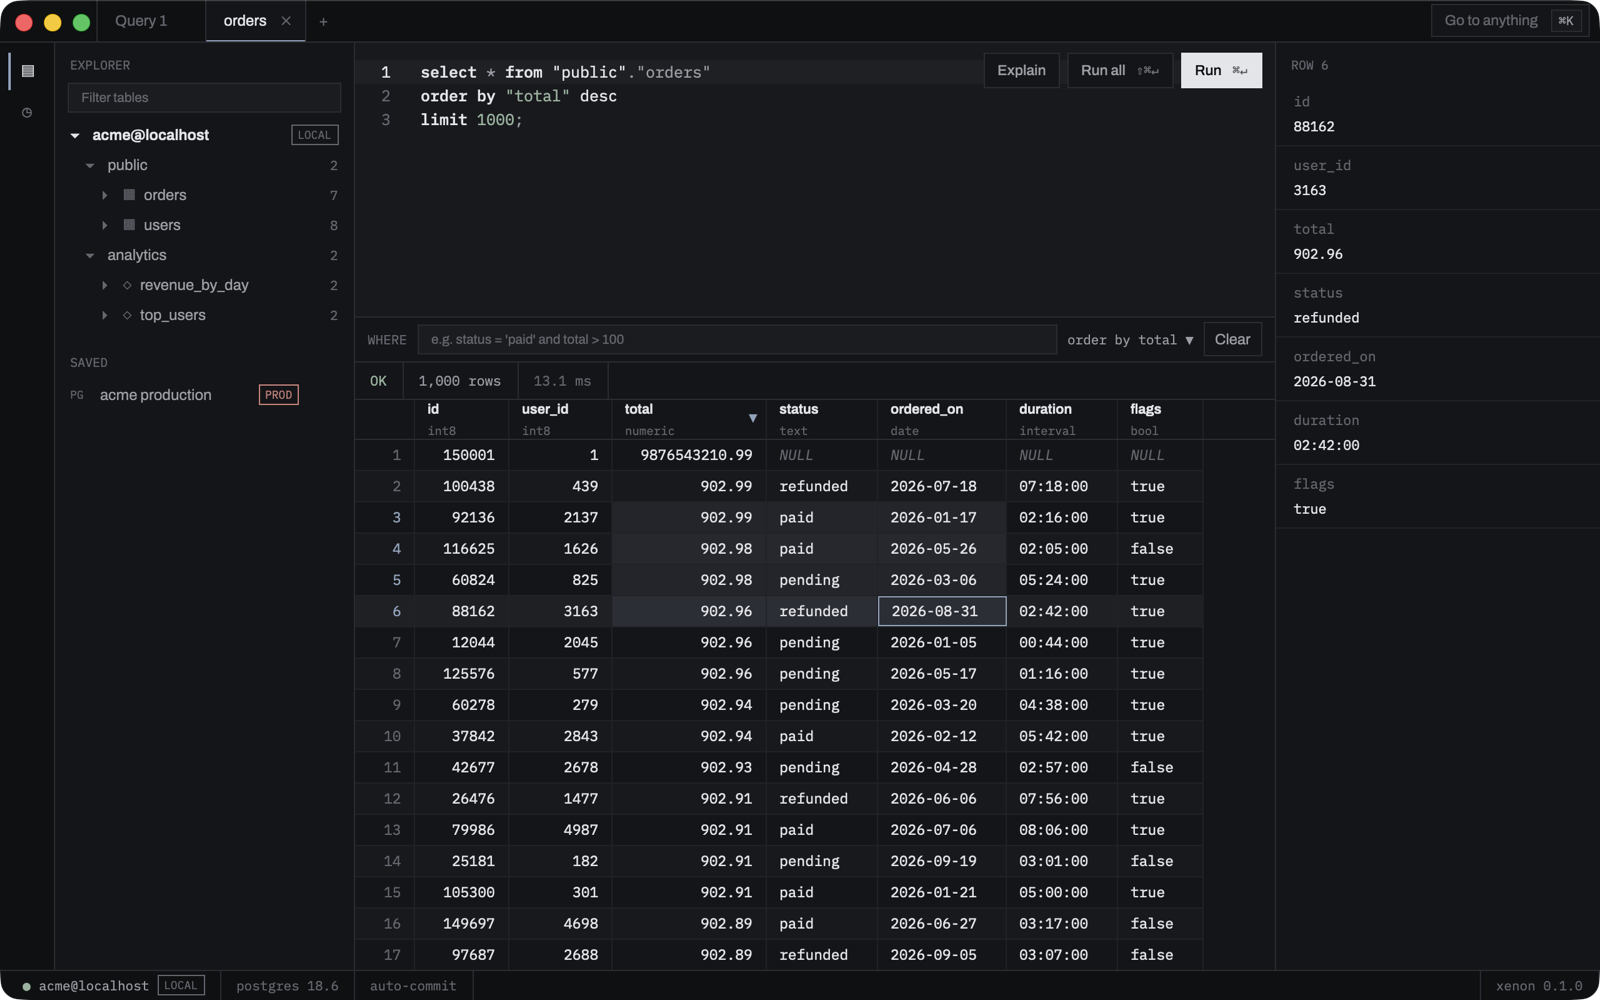
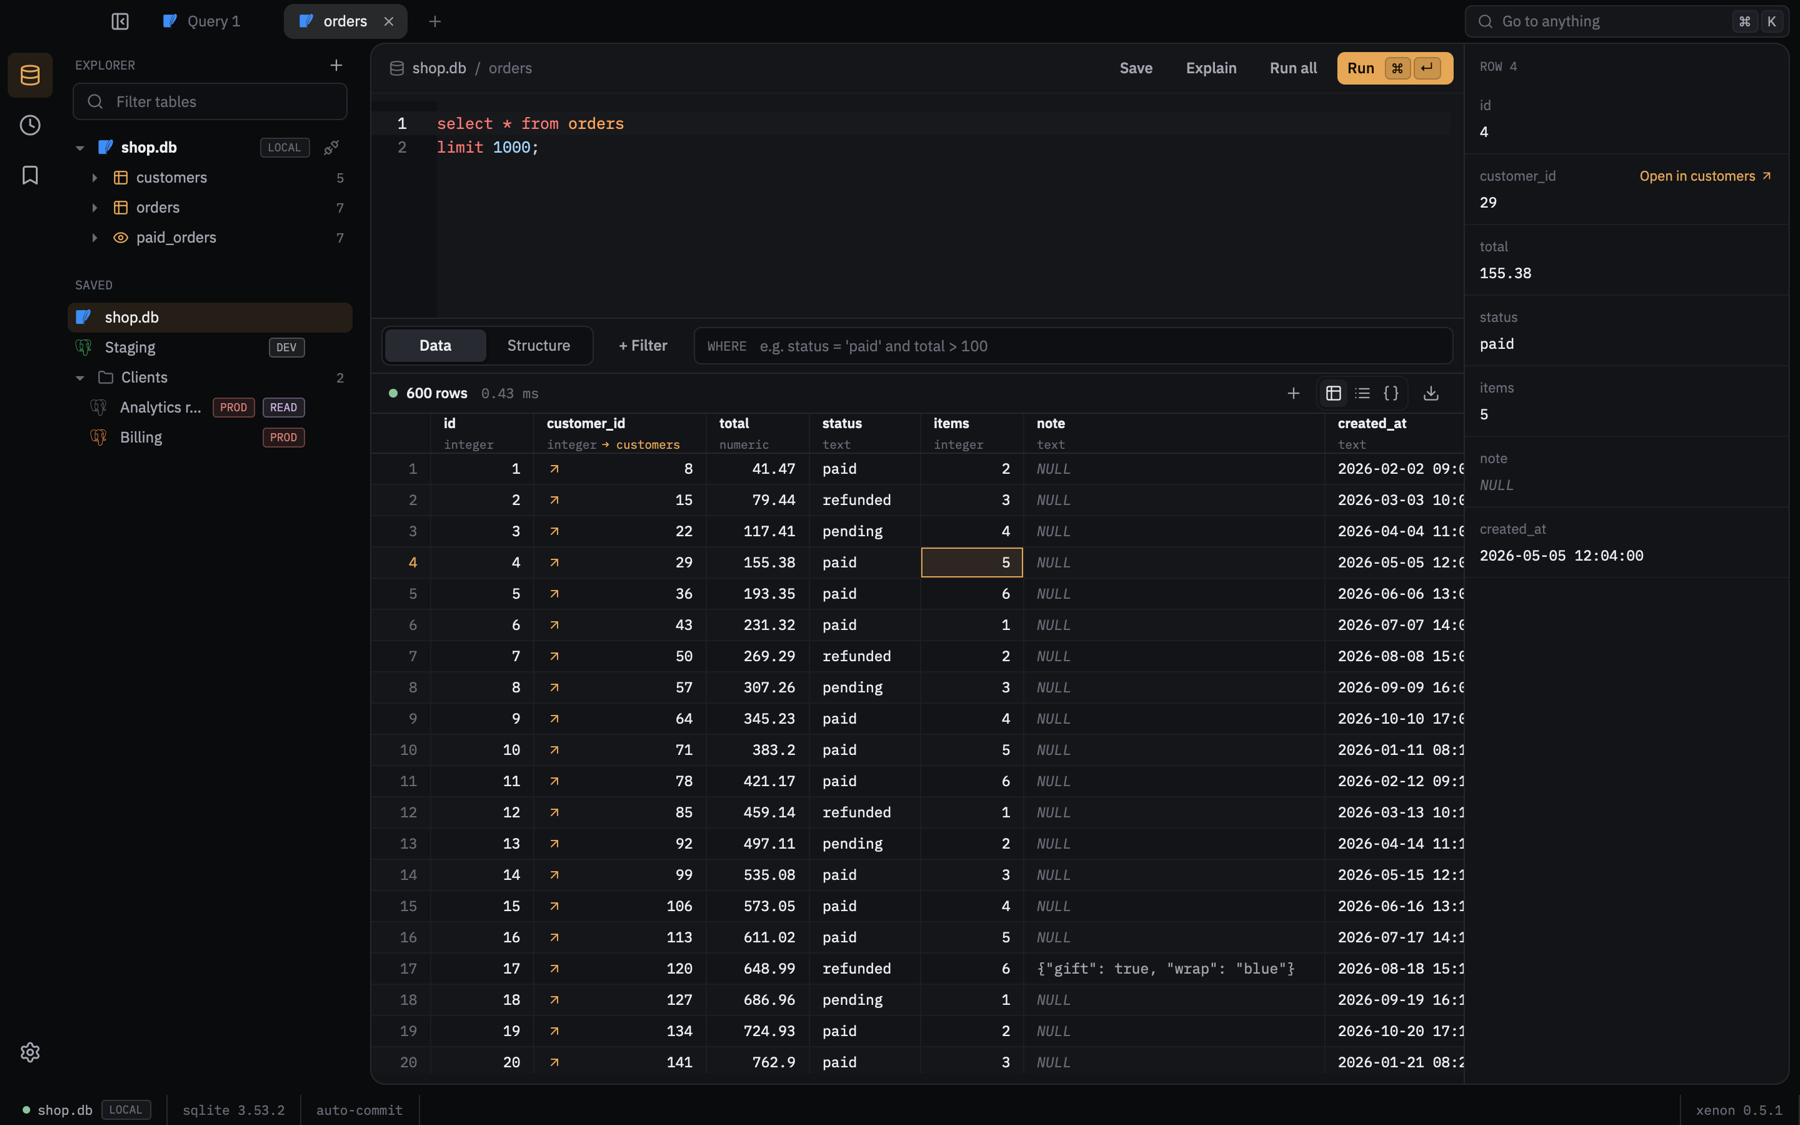
0.5.1; README: new screenshots, and what's changed since 0.3 (editing in place, result views, parameters, error fixes, connections, settings, shortcuts, fonts)

diff --git a/README.md b/README.md
@@ -19,16 +19,20 @@ A fast, minimal database client for Postgres, MySQL, MariaDB, SQL Server, SQLite
 - **Several connections at once**, side by side: every tab says which database it runs on.
 - **SSH tunnels** through a bastion, using your own `ssh`: `~/.ssh/config` aliases, `ProxyJump`, the
   agent (1Password, Secretive) and `known_hosts` all just work.
+- **Stays connected** through sleep and network drops, and never re-runs a query by itself.
+- **Yours to arrange:** light or dark, six accents, ten code themes, five interface and five code
+  fonts, any text size.
 
-Version 0.3.0, early. See [ROADMAP.md](ROADMAP.md) for the road to 1.0 and [PLAN.md](PLAN.md) for design and architecture.
+Version 0.5.1, early. See [ROADMAP.md](ROADMAP.md) for the road to 1.0 and [PLAN.md](PLAN.md) for design and architecture.
 
 ## Install
 
-Download `Xenon-0.3.0.dmg` from [Releases](https://github.com/0mjs/xenon/releases), open it and
+Download `Xenon-0.5.1.dmg` from [Releases](https://github.com/0mjs/xenon/releases), open it and
 drag Xenon to Applications. It's signed with Carbon Software's Developer ID and notarized by
 Apple.
 
-Requires macOS 12 or later.
+Requires macOS 12 or later on Apple silicon. There's no automatic updating yet: **Xenon → Check
+for Updates…** says when a newer version is out.
 
 ## Use
 
@@ -45,7 +49,7 @@ back Connect to open another, and `⇧⌘W` closes the current tab's connection.
 | Shortcut | Action |
 |---|---|
 | `⌘K` / `⌘P` | Command palette: jump to a table or run any command |
-| `⌘,` | Settings: theme, accent colour, row limits, editor size, safety, history |
+| `⌘,` | Settings: theme, layout, fonts, text size, accent, code theme, row limits, safety, history |
 | `⌘O` | Open a database file (SQLite, DuckDB) or a CSV / Parquet / JSON file |
 | `⌘N` | New server connection (Postgres, MySQL / MariaDB, SQL Server) |
 | `⇧⌘N` | Connections: open another database alongside |
@@ -53,6 +57,10 @@ back Connect to open another, and `⇧⌘W` closes the current tab's connection.
 | `⌘↵` | Run the statement under the cursor (or the selection) |
 | `⇧⌘↵` | Run everything in the editor (or the selection) |
 | `⌘E` | Explain the statement under the cursor |
+| `⌥⇧F` | Format SQL (only the layout changes; anything it doesn't understand is left alone) |
+| `⌘/` | Toggle comment |
+| `⌘F` / `⇧⌘F` | Find / find and replace in the editor |
+| `⌘+` / `⌘−` / `⌘0` | Bigger / smaller / actual-size text, everywhere |
 | `⌘.` | Cancel the running query |
 | `⌘S` | Save the query (or a table's staged changes) |
 | `⇧⌘S` | Export results: CSV, Excel, JSON, SQL inserts, Markdown, TSV |
@@ -66,25 +74,55 @@ back Connect to open another, and `⇧⌘W` closes the current tab's connection.
 **Results grid:** click a cell, shift-click or `⇧`+arrows to select a block, arrows to move, `⌘A`
 for everything. `⌘C` copies as TSV (pastes into spreadsheets), `⇧⌘C` as CSV, `⌥⌘C` as JSON. Click
 a header to sort; drag a header's edge to resize, double-click it to fit. `Esc` returns to the
-editor.
+editor. Right-click a header to hide, pin or move a column; tables remember their arrangement.
+Select numbers to see their count, sum, average, min and max in the results bar.
+
+**Grid, Records or JSON:** the switch above the results shows rows as a grid, as cards of field and
+value (handy for one wide row), or as JSON, pretty or compact. A script's statements each get
+their own result tab.
+
+![Two result sets from one script](docs/screenshots/results.png)
 
 **Browsing a table** (click it in the explorer) opens it in its own tab with a `WHERE` filter;
-sorting there runs on the server, so you see the true top rows.
+sorting there runs on the server, so you see the true top rows. Large tables page, with a row
+count (exact when that's cheap, estimated when not).
 
 **Autocomplete** suggests tables after `FROM` / `JOIN`, columns of the tables in your statement
 (through their aliases: `o.` lists `orders`' columns), other schemas' tables, functions and
 keywords, as you type; `⌃Space` opens it anywhere.
 
-**Editing a table:** double-click a cell (or select it and press `↵`), type, and press `↵`; **Set
-NULL** is next to the field. **+ Row** adds a row (empty cells take the column's default), `⌘⌫`
+**Editing a table:** double-click a cell (or select it and press `↵`) and type straight into it: `↵`
+keeps the change, `Esc` drops it, `Tab` moves to the next cell. The inspector shows the field
+being edited, with **Set NULL**; long text and JSON open there in a bigger editor. **+ Row** adds a row (empty cells take the column's default), `⌘⌫`
 marks the selected rows for deletion. Changes stay staged, tinted in the grid, until you press
 `⌘S`: they're saved in one transaction, and if any row changed or vanished since it was loaded,
 nothing is saved. **Review SQL** shows exactly what will run; production connections always ask,
 with their name typed. Tables need a primary key to be edited.
 
+![Editing a cell in place](docs/screenshots/edit.png)
+
+**Parameters:** `:name` everywhere, `$1` on Postgres and DuckDB, `?` on MySQL, SQLite and DuckDB.
+Xenon asks for the values and writes them in as quoted literals, so the production prompt shows
+exactly what will run.
+
+**Errors where they happen:** the mistake is underlined in the editor, and a misspelt table or
+column gets "Did you mean…?" with a **Fix** button.
+
+![A misspelt column, with a fix](docs/screenshots/errors.png)
+
+**Connections** can be coloured and filed in folders: a slash in a name files it
+(`Clients/Acme production`). **File → Import Connections…** takes URLs or file paths, one per line.
+Mutual TLS: a private CA and client certificates for Postgres and MySQL / MariaDB, a CA for SQL
+Server.
+
+**Settings** (`⌘,`) change things as you go: theme, a classic or floating layout, interface and
+code fonts, text size, accent, code theme, row limits and safety.
+
+![Settings](docs/screenshots/settings.png)
+
 **Also:** drag the line under the editor to resize it (double-click to reset); when the database
-says where a query failed, the cursor jumps there; View → Theme picks System, Light or Dark; double-click
-the title bar to zoom.
+says where a query failed, the cursor jumps there; View → Theme picks System, Light or Dark; Xenon opens
+filling the screen, and double-clicking the title bar returns it to its window size.
 
 ## Build from source
 
@@ -131,5 +169,6 @@ Software Ltd. See [CONTRIBUTING.md](CONTRIBUTING.md) before sending code.
 
 ## Credits
 
-Fonts: Archivo and IBM Plex Mono, under the SIL Open Font License (`assets/fonts`). UI built on
+Fonts: Archivo, Inter, Geist, IBM Plex Sans, IBM Plex Mono, JetBrains Mono, Fira Code and Geist
+Mono, under the SIL Open Font License (`assets/fonts`). UI built on
 [GPUI](https://gpui.rs) and [gpui-component](https://github.com/longbridge/gpui-kit).
